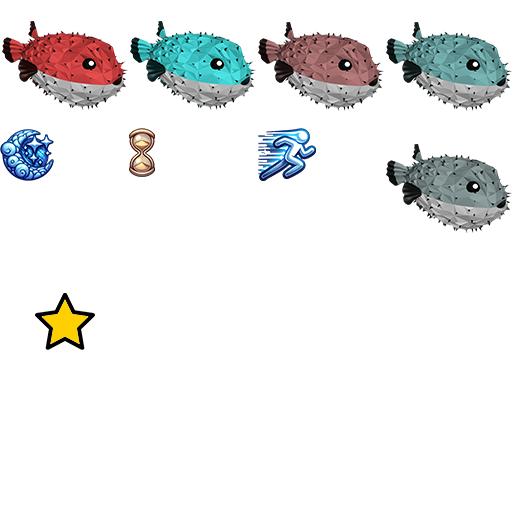
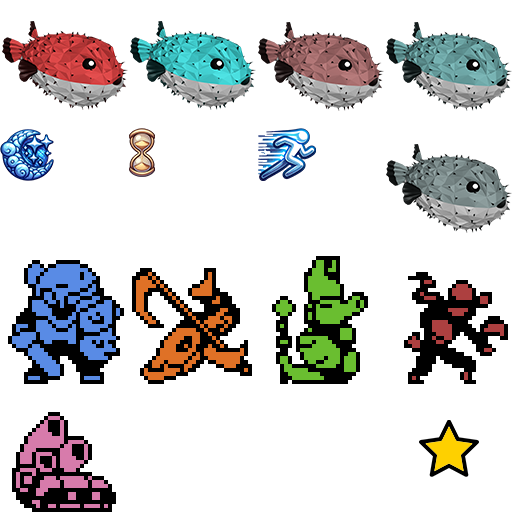
merge

diff --git a/pufferlib/environments/ocean/moba/moba.py b/pufferlib/environments/ocean/moba/moba.py
@@ -384,17 +384,17 @@ class RaylibClient:
         sprite_sheet_path = os.path.join(
             *self.__module__.split('.')[:-1], 'moba_assets.png')
         self.asset_map = {
-            2: (0, 256, 128, 128),
-            11: (0, 0, 128, 128),
-            12: (0, 0, 128, 128),
-            13: (0, 0, 128, 128),
-            14: (0, 0, 128, 128),
-            15: (0, 0, 128, 128),
-            6: (128, 0, 128, 128),
-            7: (128, 0, 128, 128),
-            8: (128, 0, 128, 128),
-            9: (128, 0, 128, 128),
-            10: (128, 0, 128, 128),
+            2: (384, 384, 128, 128),
+            11: (256, 256, 128, 128),
+            12: (384, 256, 128, 128),
+            13: (128, 256, 128, 128),
+            14: (0, 256, 128, 128),
+            15: (0, 384, 128, 128),
+            6: (256, 256, 128, 128),
+            7: (384, 256, 128, 128),
+            8: (128, 256, 128, 128),
+            9: (0, 256, 128, 128),
+            10: (0, 384, 128, 128),
             4: (256, 0, 128, 128),
             3: (384, 0, 128, 128),
             5: (384, 128, 128, 128),

diff --git a/pufferlib/environments/ocean/environment.py b/pufferlib/environments/ocean/environment.py
@@ -85,8 +85,8 @@ def make_snake(widths=None, heights=None, num_snakes=None, num_food=None, vision
         raise ValueError(
             f'Preset: {preset} must be 1440p-4096, 720p-1024, 40p-4, or classic')
     
-    from .snake import snake
-    return snake.Snake(
+    from .snake import csnake
+    return csnake.Snake(
         widths=widths,
         heights=heights,
         num_snakes=num_snakes,

diff --git a/clean_pufferl.py b/clean_pufferl.py
@@ -581,7 +581,7 @@ def rollout(env_creator, env_kwargs, policy_cls, rnn_cls, agent_creator, agent_k
 
     if render_mode != 'auto':
         env_kwargs['render_mode'] = render_mode
-        
+
     # We are just using Serial vecenv to give a consistent
     # single-agent/multi-agent API for evaluation
     env = pufferlib.vector.make(env_creator, env_kwargs=env_kwargs, backend=backend)
